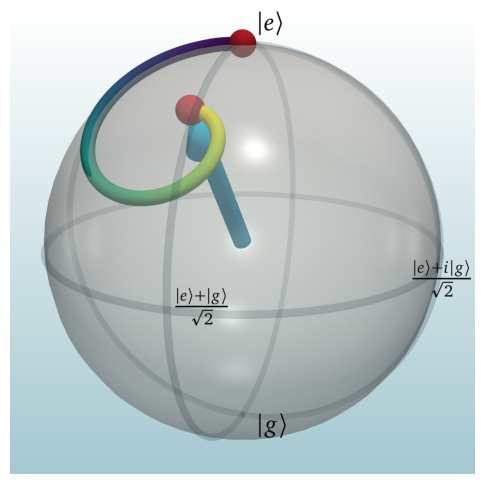
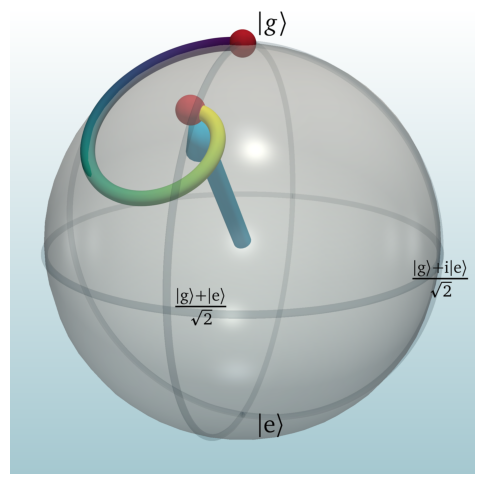
BlochSphere: improvement: default labels follow no usual convention

diff --git a/ifigures/amoplots.py b/ifigures/amoplots.py
@@ -702,10 +702,10 @@ class BlochSphere:
              labelAxis=True,
              labelSize=12,
              dpi=100,
-             label=[r"$|e\rangle$",
-                         r"$|g\rangle$",
-                         r"$\frac{|e\rangle+|g\rangle}{\sqrt{2}}$",
-                         r"$\frac{|e\rangle+i|g\rangle}{\sqrt{2}}$"
+             label=[r"$|g\rangle$",
+                         r"$|\rm e\rangle$",
+                         r"$\frac{|\rm g\rangle+|\rm e\rangle}{\sqrt{2}}$",
+                         r"$\frac{|\rm g\rangle+i|\rm e\rangle}{\sqrt{2}}$"
                         ],
               labelOffset=None
             ):
